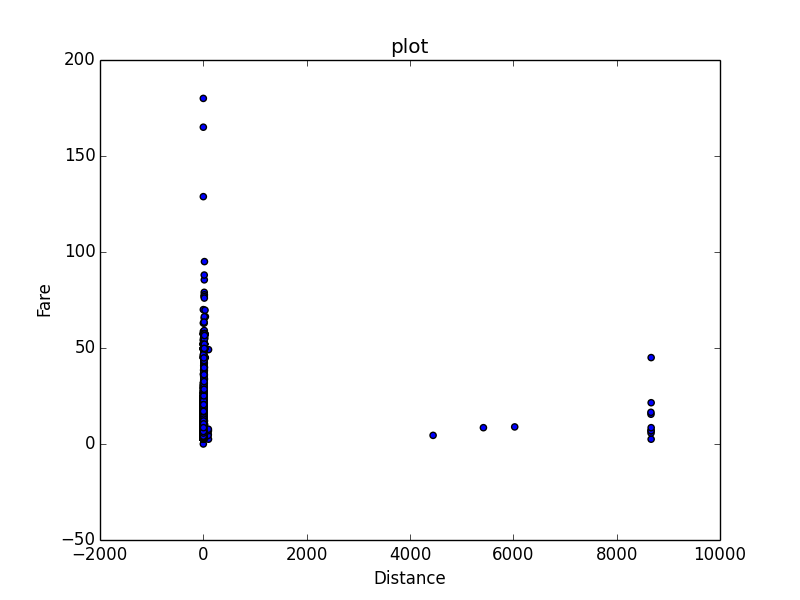
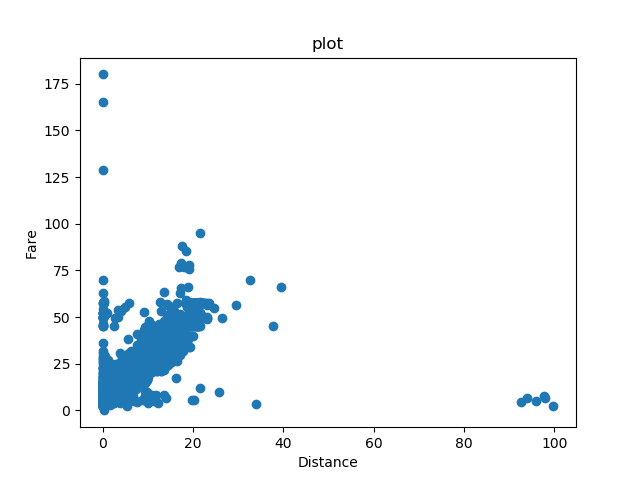
Neural nets error stats, distance plot fix

diff --git a/plot_relations.py b/plot_relations.py
@@ -2,10 +2,11 @@ import matplotlib.pyplot as plt
 from numpy import genfromtxt
 
 
-#fare, number_of_passengers, distance, start_time_is_weekend, start_time_of_day,  pickup_longitude, pickup_latitude, dropoff_longitude, dropoff_latitude 
+# FEATURE: passengers, distance, is_weekend, start_time, pickup, drop off
 
 graph_path = "graphs/"
 num_of_points = 10000
+distance_threshold = 100
 
 def load_data(filename):
 	data = genfromtxt(filename, delimiter=',')
@@ -16,7 +17,10 @@ def split_into_xy(data):
 	x, y = data[:, 1:], data[:, 0]
 	return (x, y)
 
+
+
 def plot_individual_feature(feature_x, y, feature):
+	print feature
 	plt.scatter(feature_x, y)
 	plt.title("plot")
 	plt.xlabel(feature)
@@ -28,33 +32,44 @@ def plot_individual_feature(feature_x, y, feature):
 
 def plot_for_features(filename):
 	data = load_data(filename)
-	x, y = split_into_xy(data)
+	x, y_temp = split_into_xy(data)
 	x = x[:num_of_points]
-	y = y[:num_of_points]
+	y_temp = y_temp[:num_of_points]
 	num_passengers = []
+	y_num_passengers = []
 	distance = []
+	y_distance = []
 	start_time_is_weekend = []
+	y_start_time_is_weekend = []
 	start_time_of_day = []
+	y_start_time_of_day = []
 	pickup_longitude = []
+	y_pickup_longitude = []
 	pickup_latitude = []
-	dropoff_longitude = []
-	dropoff_latitude = []                                                                          #MOD 1:Input file format not clear, need to recheck with P.
-	for each in x:
-		num_passengers.append(each[0])	
-		distance.append(each[1])
-		start_time_is_weekend.append(each[2])
-		start_time_of_day.append(each[3])
-		pickup_longitude.append(each[4])
-		pickup_latitude.append(each[5])
-	plot_individual_feature(num_passengers, y, 'Number of Passengers')                                  #MOD 2: Make changes to labels accordingly
-	plot_individual_feature(distance, y, 'Distance')
-	plot_individual_feature(start_time_is_weekend, y, 'Is Weekend')
-	plot_individual_feature(start_time_of_day, y, 'Time of Day')
-	plot_individual_feature(pickup_longitude, y, 'Pickup')
-	plot_individual_feature(pickup_latitude, y, 'Dropoff')
-	# plot_individual_feature(dropoff_longitude, y, 'dropoff_longitude')
-	# plot_individual_feature(dropoff_latitude, y, 'dropoff_latitude')
+	y_pickup_latitude = []
+	i=0
+	while i<len(x):
+		num_passengers.append(x[i][0])	
+		y_num_passengers.append(y_temp[i])
+		if x[i][1] < distance_threshold:
+			distance.append(x[i][1])
+			y_distance.append(y_temp[i])
+		start_time_is_weekend.append(x[i][2])
+		y_start_time_is_weekend.append(y_temp[i])
+		start_time_of_day.append(x[i][3])
+		y_start_time_of_day.append(y_temp[i])
+		pickup_longitude.append(x[i][4])
+		y_pickup_longitude.append(y_temp[i])
+		pickup_latitude.append(x[i][5])
+		y_pickup_latitude.append(y_temp[i])
+		i = i+1
+	plot_individual_feature(num_passengers, y_num_passengers, 'Number of Passengers')
+	plot_individual_feature(distance, y_distance, 'Distance')
+	plot_individual_feature(start_time_is_weekend, y_start_time_is_weekend, 'Is Weekend')
+	plot_individual_feature(start_time_of_day, y_start_time_of_day, 'Time of Day')
+	plot_individual_feature(pickup_longitude, y_pickup_longitude, 'Pickup')
+	plot_individual_feature(pickup_latitude, y_pickup_latitude, 'Dropoff')
 
 
 if __name__== "__main__":
-	print plot_for_features("data/master_data.csv")
+	plot_for_features("data/master_data.csv")

diff --git a/neural_net_quantile.py b/neural_net_quantile.py
@@ -10,13 +10,18 @@ from sklearn.metrics import mean_squared_error
 import math
 import tensorflow as tf
 from create_data_files import create_train_test
+import statistics
 
-quant = np.arange(0.1, 1, 0.1)
-result_file = 'results/quantile_neural.csv'
+quant = [0.5]
+#np.arange(0.1, 1, 0.1)
+data_size = [100, 500, 1000, 5000, 10000, 50000, 100000]   # for testing
+result_file = 'results/offline/quantile_neural/error.csv'
 
-def rmsle_func(y_pred, y) : 
-    	assert len(y) == len(y_pred)
-	terms_to_sum = [(math.log(y_pred[i] + 1) - math.log(y[i] + 1)) ** 2.0 for i,pred in enumerate(y_pred)]
+def rmsle_func(y_pred, y) :
+	try: 
+		terms_to_sum = [(math.log(y_pred[i] + 1) - math.log(y[i] + 1)) ** 2.0 for i,pred in enumerate(y_pred)]
+	except ValueError as e:
+		print(e.detail)
 	return (sum(terms_to_sum) * (1.0/len(y))) ** 0.5
 
 def load_data(filename):
@@ -31,7 +36,7 @@ def define_model():
     model = Sequential()
     model.add(Dense(units=10, input_dim=6,activation='relu'))
     model.add(Dense(units=10, input_dim=6,activation='relu'))
-    model.add(Dense(6))
+    model.add(Dense(1))
     return model
 
 def tilted_loss(q,y,f):
@@ -40,9 +45,12 @@ def tilted_loss(q,y,f):
 
 def test_model(model, test_file):
 	data = load_data(test_file)
+	y_pred = []
 	x_test, y_test = split_into_xy(data)
 	x_normal = normalize(x_test, norm='l2')
-	y_pred = model.predict(x_normal)
+	y_temp = model.predict(x_normal)
+	for temp in y_temp:
+		y_pred.append(temp[0])
 	return (y_test, y_pred)
 
 def build_models_on_quantile(train_file):
@@ -53,9 +61,9 @@ def build_models_on_quantile(train_file):
 	for qt in quant:
 		model = define_model()
 		model.compile(loss=lambda y, f: tilted_loss(qt,y,f), optimizer='adadelta')
-		model.fit(x_normal, y, epochs=2000, batch_size=34, verbose=0)   #TODO: discuss about the epoch size and batch size
-		#model.fit(x_normal, y, epochs=200, batch_size=100, verbose=0)
+		model.fit(x_normal, y, epochs=50, batch_size=34, verbose=0)   
 		models.append({'qt':qt, 'model':model})
+	models.pop(0)
 	return models
 
 def get_error_stats(y_test, y_pred, result_file_pointer, quantile):
@@ -66,10 +74,8 @@ def get_error_stats(y_test, y_pred, result_file_pointer, quantile):
 		error_list.append(error)
 		index = index + 1
 	rmsle = rmsle_func(y_pred, y_test)
-	print rmsle
 	mean_error = statistics.mean(error_list)
 	std_dev_error = statistics.stdev(error_list)
-	print quantile, mean_error, std_dev_error
 	percentile_errors = []
 	for i in range(0, 100, 5):
 		percentile_errors.append(np.percentile(error_list, i))
@@ -91,5 +97,5 @@ def run_neural_net_quantile_regression(train_file, test_file):
 		get_error_stats(y_test, y_pred, result_file_pointer, element['qt'])
 
 if __name__== "__main__":
-	create_train_test(100, False)
-	print run_neural_net_quantile_regression("data/train.csv", "data/test.csv")
+	#create_train_test(data_size, False)
+	run_neural_net_quantile_regression("data/train.csv", "data/test.csv")
